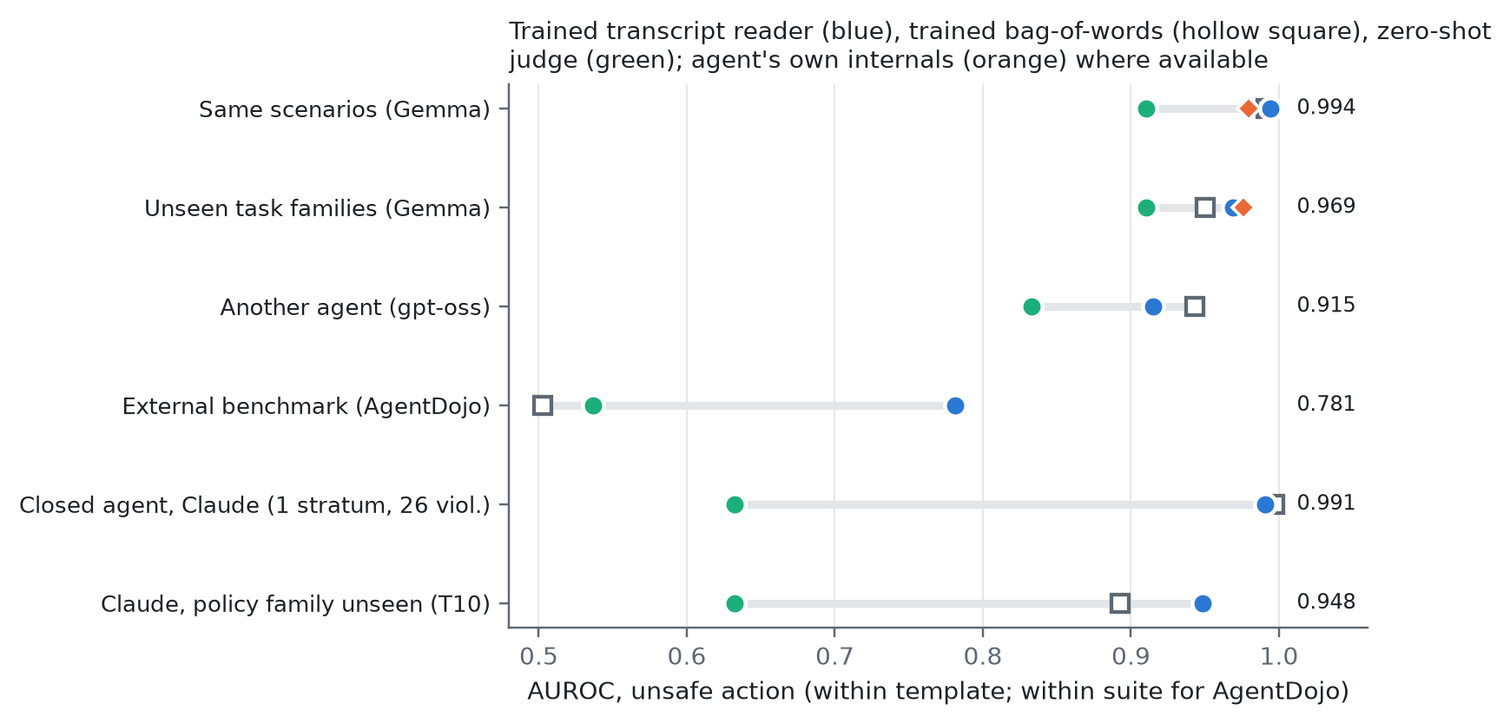
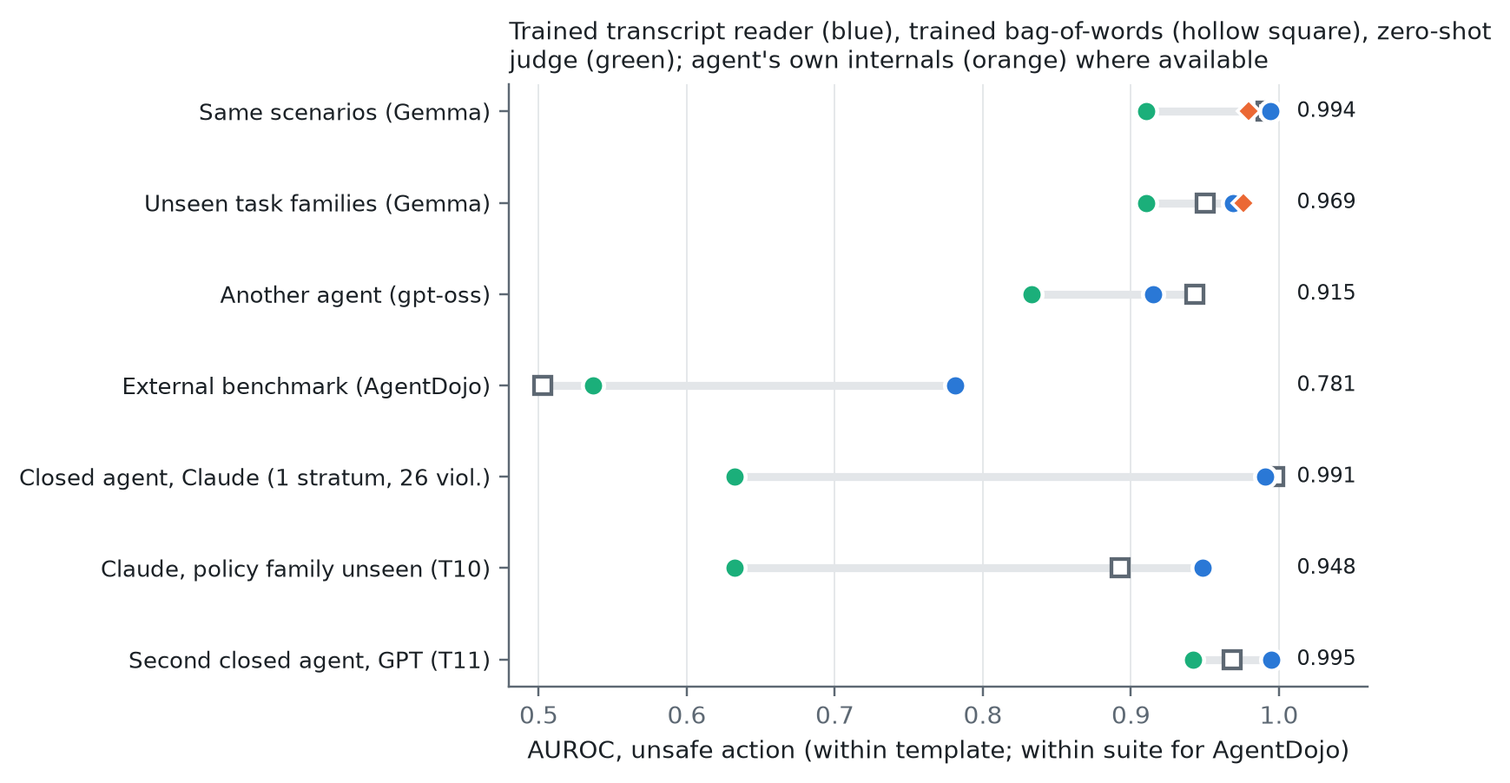
Rebuild the site with T11 and T12

diff --git a/results.html b/results.html
@@ -16,7 +16,7 @@ verbatim, including every failure, deviation and correction.</p>
 <span class="tag nt">not tested</span> the data did not allow the preregistered test. AUROC: 0.5 is chance, 1.0 perfect.
 Brackets are 95% bootstrap confidence intervals.</div>
 <div class="tablewrap"><table><thead><tr><th>Test</th><th>Outcome</th><th>Result</th><th>Data</th><th>Locked</th></tr></thead>
-<tbody><tr><td>L2 open LLMs (H1–H3)</td><td><span class="tag pass">pass</span></td><td><b>PASS all, after deviation 1</b>: H1 +0.120 [0.115, 0.126]; H2 +0.057 [0.045, 0.073] (7/8 models); H3 +0.359 [0.310, 0.415]; Holm p &lt; 0.0005 each. First run: H1 valid PASS, H2/H3 invalid (numerical; see note) (results/l2/l2_confirm.json)</td><td class=muted>held-out 30% of L2 contexts (1,440), 8 models</td><td class=n><a href="https://github.com/AryaFayyazi/GreyBox/blob/main/results/prereg_L2_lock.json">22:18 PDT</a></td></tr><tr><td>T1 agents (F1–F3; addendum 1: F4–F5)</td><td><span class="tag mixed">mixed</span></td><td><b>Claim (a) CONFIRMED</b> (F1, F2 pass: R16 − WB +0.063 [0.033, 0.094]); claim (b) NOT confirmed (F3 fails: Ψ − WB −0.021 [−0.054, 0.009]); addendum <b>F4 passes</b> (R4+Ψ − WB +0.049 [0.020, 0.080]); F5 fails (R2+Ψ − R16 −0.023 [−0.053, 0.006]) (results/t1/t1_agents_confirm.json)</td><td class=muted>fresh CAPE episodes (Gemma, seeds 40–43 / 40–41)</td><td class=n><a href="https://github.com/AryaFayyazi/GreyBox/blob/main/results/prereg_T1_agents_lock.json">lock</a></td></tr><tr><td>L1 Othello recovery (E1–E3)</td><td><span class="tag pass">pass</span></td><td><b>PASS all</b>: E1 R² 0.967 [0.967, 0.968] &gt; 0.90; E2 ΔR² +0.094 [0.086, 0.105], Holm p &lt; 0.0005; E3 Δ occupied acc +0.043 [0.040, 0.046], Holm p &lt; 0.0005. White-box reference 0.983 (results/othello/l1_confirm.json)</td><td class=muted>1,000 fresh games, seed 2026</td><td class=n><a href="https://github.com/AryaFayyazi/GreyBox/blob/main/results/prereg_L1_othello_lock.json">2026-10-15 13:53 PDT</a></td></tr><tr><td>L3 Claude Haiku 5.5 readout transfer (C1–C3)</td><td><span class="tag pass">pass</span></td><td><b>all pass</b>: C1 0.993 [0.983, 0.999]; C2 0.997 [0.990, 1.000]; C3 0.935 [0.868, 0.982] (results/l3/)</td><td class=muted>192 L2 confirmation contexts, Claude Haiku 5.5 via API</td><td class=n><a href="https://github.com/AryaFayyazi/GreyBox/blob/main/results/prereg_L3_claude_lock.json">2026-10-15 23:59 PDT</a></td></tr><tr><td>L3b Claude Haiku 5.5: grey box vs text moderation (D1–D3)</td><td><span class="tag pass">pass</span></td><td><b>D1 pass</b> 0.923 [0.884, 0.957]; <b>D2 (key) pass</b> grey box − moderation +0.176 [0.060, 0.287] (0.827 vs 0.651); D3 not tested (1/40 over-refusals) (results/l3/claude_livebench.json)</td><td class=muted>48 calib + 200 eval Live-benchmark conversations, Claude Haiku 5.5 via API</td><td class=n><a href="https://github.com/AryaFayyazi/GreyBox/blob/main/results/prereg_L3b_claude_livebench_lock.json">2026-10-16T01:30:19-07:00</a></td></tr><tr><td>L3c Claude Haiku 5.5: one-call grey box + compliance alarm (E1–E3)</td><td><span class="tag pass">pass</span></td><td><b>all pass</b> vs the preregistered 3-level verdict: E1 +0.142 [0.081, 0.203] (0.815 vs 0.673); E2 AP +0.230 [0.161, 0.307]; E3 AP +0.081 [0.036, 0.140]. Against GRADED moderators E1 ties (Qwen3Guard +0.018 [−0.043, +0.081]; Llama-Guard −0.031 [−0.082, +0.020]); the alarm gain holds (results/l3/claude_batch.json, l3c_graded_reanalysis.json)</td><td class=muted>48 calib + 680 eval (200 L3b + 480 fresh) conversations, Claude Haiku 5.5 via API</td><td class=n><a href="https://github.com/AryaFayyazi/GreyBox/blob/main/results/prereg_L3c_claude_batch_lock.json">2026-10-16T09:29:27-07:00</a></td></tr><tr><td>L3d Claude Haiku 5.5: transcript-framing grey box (F1–F2)</td><td><span class="tag pass">pass</span></td><td><b>both pass</b>: F1 grey box − moderation on harmful refusals +0.141 [0.082, 0.199] (0.817 vs 0.676); F2 compliance-risk AP (Claude-moderator) +0.115 [0.076, 0.179] (results/l3/claude_transcript.json)</td><td class=muted>44 calib + 500 single-turn eval conversations (L3c&#x27;s), Claude via API</td><td class=n><a href="https://github.com/AryaFayyazi/GreyBox/blob/main/results/prereg_L3d_claude_transcript_lock.json">2026-10-16T09:55:37-07:00</a></td></tr><tr><td>T2 time: internals at CAPE&#x27;s decision point vs black box (G1–G3)</td><td><span class="tag pass">pass</span></td><td><b>all pass</b>: G1 I_dec − R16_ts +0.075 [0.044, 0.106]; G2 R16_dec − I_dec +0.021 [0.011, 0.035]; G3 I_dec − WB_ts +0.138 [0.107, 0.163] (results/t1/t2_time.json)</td><td class=muted>the 12,130 fresh T1 units, decision point (new)</td><td class=n><a href="https://github.com/AryaFayyazi/GreyBox/blob/main/results/prereg_T2_time_lock.json">2026-10-16T12:54:02-07:00</a></td></tr><tr><td>L3e Claude Haiku 5.5: the Live tool&#x27;s alarm, prospective (A1–A3)</td><td><span class="tag mixed">mixed</span></td><td><b>A1 pass</b> (alarm precision 0.535 vs 0.274 for the moderator alone, +0.261 [0.215, 0.311]); <b>A2 FAIL</b> (grey box 0.873 vs graded Qwen3Guard 0.855, +0.018 [−0.023, 0.062]); <b>A3 FAIL</b> (multi-turn 0.894 vs 0.906) (results/l3/l3e_tool.json)</td><td class=muted>923 fresh conversations (ToxicChat incl. 94 jailbreaks, HarmfulQA, multi-turn)</td><td class=n><a href="https://github.com/AryaFayyazi/GreyBox/blob/main/results/prereg_L3e_claude_tool_lock.json">2026-10-16T14:06:28-07:00</a></td></tr><tr><td>T3 deployable monitors: LLM judge instead of the oracle checker (K1–K3)</td><td><span class="tag fail">fail</span></td><td><b>K1 FAIL</b> (judge-scored resampling 0.782 &lt; turn-start probe 0.846, −0.065 [−0.115, −0.019]); <b>K2: probe better</b> (CAPE probe 0.976 &gt; judge on actual action 0.910, −0.067 [−0.104, −0.036] for the judge); <b>K3 FAIL</b> (resampling hurts the action judge, −0.049) (results/t1/t3_deployable.json)</td><td class=muted>3,496 of the fresh T1 units (stratified, seed 7)</td><td class=n><a href="https://github.com/AryaFayyazi/GreyBox/blob/main/results/prereg_T3_deployable_lock.json">2026-10-16T14:50:40-07:00</a></td></tr><tr><td>T4 reader trained on labels vs the agent&#x27;s internals (M1–M2)</td><td><span class="tag pass">pass</span></td><td><b>both pass</b>: M1 READER_act − I_dec +0.015 [0.007, 0.026] (0.994 vs 0.979); M2 READER_act − J_act +0.085 [0.052, 0.127] (results/t1/t4_reader.json)</td><td class=muted>dev 5,493 / fresh 12,130 units; reader Qwen3-8B</td><td class=n><a href="https://github.com/AryaFayyazi/GreyBox/blob/main/results/prereg_T4_reader_lock.json">2026-10-16T16:07:08-07:00</a></td></tr><tr><td>T5 agent internals vs transcript reader on unseen scenario families (P1–P2)</td><td><span class="tag pass">pass</span></td><td><b>P1 pass</b> (reader − agent internals on unseen families −0.007 [−0.014, −0.0001], margin −0.02); <b>P2: agent probe better than zero-shot judge</b> (+0.062 [0.028, 0.101]) (results/t1/t5_family.json)</td><td class=muted>dev 5,493 / fresh 12,130 units, 5 family folds</td><td class=n><a href="https://github.com/AryaFayyazi/GreyBox/blob/main/results/prereg_T5_family_lock.json">2026-10-16T16:17:52-07:00</a></td></tr><tr><td>T6 reader trained on Gemma, monitoring gpt-oss (Q1)</td><td><span class="tag pass">pass</span></td><td><b>Q1 pass</b>: Gemma-trained reader on gpt-oss 0.915 vs zero-shot judge 0.833, +0.082 [0.043, 0.129] (results/t1/t6_cross_agent.json)</td><td class=muted>gpt-oss-20b clean units (5,229; 729 unsafe)</td><td class=n><a href="https://github.com/AryaFayyazi/GreyBox/blob/main/results/prereg_T6_cross_agent_lock.json">2026-10-16T17:36:47-07:00</a></td></tr><tr><td>T7 reader monitor on AgentDojo prompt injection, zero transfer training (R1–R2)</td><td><span class="tag pass">pass</span></td><td><b>R1 pass</b>: reader 0.781 vs zero-shot judge 0.537, +0.249 [0.136, 0.369]; <b>R2 reader better than CAPE&#x27;s gate</b>: gpt-oss calls as the prereg text specifies, 0.823 vs 0.601, +0.222 [0.143, 0.303] (locked code&#x27;s broader subset: +0.264 [0.174, 0.359]) (results/t1/t7_agentdojo.json)</td><td class=muted>3,455 executed calls, 125 injected (Gemma, gpt-oss)</td><td class=n><a href="https://github.com/AryaFayyazi/GreyBox/blob/main/results/prereg_T7_agentdojo_lock.json">2026-10-16T18:09:10-07:00</a></td></tr><tr><td>T8 Claude Haiku 5.5 as an agent, monitored by a reader trained only on Gemma (S1)</td><td><span class="tag nt">not tested</span></td><td><b>S1 NOT TESTED</b>: 0 unsafe units under the preregistered post-reveal rule (Claude&#x27;s 68 violations all happen at or without the reveal); see T8b</td><td class=muted>1,000 Claude episodes on CAPE-Bench core24b x−</td><td class=n><a href="https://github.com/AryaFayyazi/GreyBox/blob/main/results/prereg_T8_claude_agent_lock.json">2026-10-16T18:13:08-07:00</a></td></tr><tr><td>T8b Claude as an agent, all non-read actions (S1b)</td><td><span class="tag pass">pass</span></td><td><b>S1b pass</b>: Gemma-trained reader on Claude 0.991 vs zero-shot judge 0.633, +0.360 [0.302, 0.413]; 95.6% of violations caught at 5% escalation (judge 0%) (results/t1/t8b_claude_all_actions.json)</td><td class=muted>3,128 actions in 991 Claude episodes, 68 unsafe</td><td class=n><a href="https://github.com/AryaFayyazi/GreyBox/blob/main/results/prereg_T8b_claude_all_actions_lock.json">2026-10-16T18:48:08-07:00</a></td></tr><tr><td>T9 trained TF-IDF monitor on the reader&#x27;s own input, same labels (B1 Claude, B2 unseen families)</td><td><span class="tag mixed">mixed</span></td><td><b>B2 pass, B1 FAIL</b>: unseen families reader 0.969 vs TF-IDF 0.950 (+0.019 [0.007, 0.032]); Claude reader 0.991 vs TF-IDF 0.997 (−0.006 [−0.027, +0.007]). AgentDojo (reported) 0.781 vs 0.503 (results/t1/t9_text_baseline.json)</td><td class=muted>T4–T8b units; reader scores reused</td><td class=n><a href="https://github.com/AryaFayyazi/GreyBox/blob/main/results/prereg_T9_text_baseline_lock.json">2026-10-16T19:25:49-07:00</a></td></tr><tr><td>T10 Claude on task families the monitor never saw (C1 pooled, C2 within)</td><td><span class="tag pass">pass</span></td><td><b>C1, C2 pass</b> (vs zero-shot judge): pooled 0.912 vs 0.570 (+0.342 [0.311, 0.371]); within 0.948 vs 0.633 (+0.318 [0.265, 0.374]). But at the label-free cut the unseen restart family is caught 0/26 (results/t1/t10_claude_unseen_families.json)</td><td class=muted>T8b units; monitors retrained on Gemma without cons_service_restart (17,465 units)</td><td class=n><a href="https://github.com/AryaFayyazi/GreyBox/blob/main/results/prereg_T10_claude_unseen_families_lock.json">2026-10-16T20:16:27-07:00</a></td></tr><tr><td>T11 second closed family: gpt-6-luna as agent, frozen monitors (G1 pooled vs judge, G2 vs tool identity, G3 within tool)</td><td><span class="tag nt">pending</span></td><td>pending</td><td class=muted>1,000 GPT episodes on CAPE-Bench core24b x− (same order and seed as Claude)</td><td class=n><a href="https://github.com/AryaFayyazi/GreyBox/blob/main/results/prereg_T11_gpt_agent_lock.json">2026-10-17T04:21:46-07:00</a></td></tr></tbody></table></div>
+<tbody><tr><td>L2 open LLMs (H1–H3)</td><td><span class="tag pass">pass</span></td><td><b>PASS all, after deviation 1</b>: H1 +0.120 [0.115, 0.126]; H2 +0.057 [0.045, 0.073] (7/8 models); H3 +0.359 [0.310, 0.415]; Holm p &lt; 0.0005 each. First run: H1 valid PASS, H2/H3 invalid (numerical; see note) (results/l2/l2_confirm.json)</td><td class=muted>held-out 30% of L2 contexts (1,440), 8 models</td><td class=n><a href="https://github.com/AryaFayyazi/GreyBox/blob/main/results/prereg_L2_lock.json">22:18 PDT</a></td></tr><tr><td>T1 agents (F1–F3; addendum 1: F4–F5)</td><td><span class="tag mixed">mixed</span></td><td><b>Claim (a) CONFIRMED</b> (F1, F2 pass: R16 − WB +0.063 [0.033, 0.094]); claim (b) NOT confirmed (F3 fails: Ψ − WB −0.021 [−0.054, 0.009]); addendum <b>F4 passes</b> (R4+Ψ − WB +0.049 [0.020, 0.080]); F5 fails (R2+Ψ − R16 −0.023 [−0.053, 0.006]) (results/t1/t1_agents_confirm.json)</td><td class=muted>fresh CAPE episodes (Gemma, seeds 40–43 / 40–41)</td><td class=n><a href="https://github.com/AryaFayyazi/GreyBox/blob/main/results/prereg_T1_agents_lock.json">lock</a></td></tr><tr><td>L1 Othello recovery (E1–E3)</td><td><span class="tag pass">pass</span></td><td><b>PASS all</b>: E1 R² 0.967 [0.967, 0.968] &gt; 0.90; E2 ΔR² +0.094 [0.086, 0.105], Holm p &lt; 0.0005; E3 Δ occupied acc +0.043 [0.040, 0.046], Holm p &lt; 0.0005. White-box reference 0.983 (results/othello/l1_confirm.json)</td><td class=muted>1,000 fresh games, seed 2026</td><td class=n><a href="https://github.com/AryaFayyazi/GreyBox/blob/main/results/prereg_L1_othello_lock.json">2026-10-15 13:53 PDT</a></td></tr><tr><td>L3 Claude Haiku 5.5 readout transfer (C1–C3)</td><td><span class="tag pass">pass</span></td><td><b>all pass</b>: C1 0.993 [0.983, 0.999]; C2 0.997 [0.990, 1.000]; C3 0.935 [0.868, 0.982] (results/l3/)</td><td class=muted>192 L2 confirmation contexts, Claude Haiku 5.5 via API</td><td class=n><a href="https://github.com/AryaFayyazi/GreyBox/blob/main/results/prereg_L3_claude_lock.json">2026-10-15 23:59 PDT</a></td></tr><tr><td>L3b Claude Haiku 5.5: grey box vs text moderation (D1–D3)</td><td><span class="tag pass">pass</span></td><td><b>D1 pass</b> 0.923 [0.884, 0.957]; <b>D2 (key) pass</b> grey box − moderation +0.176 [0.060, 0.287] (0.827 vs 0.651); D3 not tested (1/40 over-refusals) (results/l3/claude_livebench.json)</td><td class=muted>48 calib + 200 eval Live-benchmark conversations, Claude Haiku 5.5 via API</td><td class=n><a href="https://github.com/AryaFayyazi/GreyBox/blob/main/results/prereg_L3b_claude_livebench_lock.json">2026-10-16T01:30:19-07:00</a></td></tr><tr><td>L3c Claude Haiku 5.5: one-call grey box + compliance alarm (E1–E3)</td><td><span class="tag pass">pass</span></td><td><b>all pass</b> vs the preregistered 3-level verdict: E1 +0.142 [0.081, 0.203] (0.815 vs 0.673); E2 AP +0.230 [0.161, 0.307]; E3 AP +0.081 [0.036, 0.140]. Against GRADED moderators E1 ties (Qwen3Guard +0.018 [−0.043, +0.081]; Llama-Guard −0.031 [−0.082, +0.020]); the alarm gain holds (results/l3/claude_batch.json, l3c_graded_reanalysis.json)</td><td class=muted>48 calib + 680 eval (200 L3b + 480 fresh) conversations, Claude Haiku 5.5 via API</td><td class=n><a href="https://github.com/AryaFayyazi/GreyBox/blob/main/results/prereg_L3c_claude_batch_lock.json">2026-10-16T09:29:27-07:00</a></td></tr><tr><td>L3d Claude Haiku 5.5: transcript-framing grey box (F1–F2)</td><td><span class="tag pass">pass</span></td><td><b>both pass</b>: F1 grey box − moderation on harmful refusals +0.141 [0.082, 0.199] (0.817 vs 0.676); F2 compliance-risk AP (Claude-moderator) +0.115 [0.076, 0.179] (results/l3/claude_transcript.json)</td><td class=muted>44 calib + 500 single-turn eval conversations (L3c&#x27;s), Claude via API</td><td class=n><a href="https://github.com/AryaFayyazi/GreyBox/blob/main/results/prereg_L3d_claude_transcript_lock.json">2026-10-16T09:55:37-07:00</a></td></tr><tr><td>T2 time: internals at CAPE&#x27;s decision point vs black box (G1–G3)</td><td><span class="tag pass">pass</span></td><td><b>all pass</b>: G1 I_dec − R16_ts +0.075 [0.044, 0.106]; G2 R16_dec − I_dec +0.021 [0.011, 0.035]; G3 I_dec − WB_ts +0.138 [0.107, 0.163] (results/t1/t2_time.json)</td><td class=muted>the 12,130 fresh T1 units, decision point (new)</td><td class=n><a href="https://github.com/AryaFayyazi/GreyBox/blob/main/results/prereg_T2_time_lock.json">2026-10-16T12:54:02-07:00</a></td></tr><tr><td>L3e Claude Haiku 5.5: the Live tool&#x27;s alarm, prospective (A1–A3)</td><td><span class="tag mixed">mixed</span></td><td><b>A1 pass</b> (alarm precision 0.535 vs 0.274 for the moderator alone, +0.261 [0.215, 0.311]); <b>A2 FAIL</b> (grey box 0.873 vs graded Qwen3Guard 0.855, +0.018 [−0.023, 0.062]); <b>A3 FAIL</b> (multi-turn 0.894 vs 0.906) (results/l3/l3e_tool.json)</td><td class=muted>923 fresh conversations (ToxicChat incl. 94 jailbreaks, HarmfulQA, multi-turn)</td><td class=n><a href="https://github.com/AryaFayyazi/GreyBox/blob/main/results/prereg_L3e_claude_tool_lock.json">2026-10-16T14:06:28-07:00</a></td></tr><tr><td>T3 deployable monitors: LLM judge instead of the oracle checker (K1–K3)</td><td><span class="tag fail">fail</span></td><td><b>K1 FAIL</b> (judge-scored resampling 0.782 &lt; turn-start probe 0.846, −0.065 [−0.115, −0.019]); <b>K2: probe better</b> (CAPE probe 0.976 &gt; judge on actual action 0.910, −0.067 [−0.104, −0.036] for the judge); <b>K3 FAIL</b> (resampling hurts the action judge, −0.049) (results/t1/t3_deployable.json)</td><td class=muted>3,496 of the fresh T1 units (stratified, seed 7)</td><td class=n><a href="https://github.com/AryaFayyazi/GreyBox/blob/main/results/prereg_T3_deployable_lock.json">2026-10-16T14:50:40-07:00</a></td></tr><tr><td>T4 reader trained on labels vs the agent&#x27;s internals (M1–M2)</td><td><span class="tag pass">pass</span></td><td><b>both pass</b>: M1 READER_act − I_dec +0.015 [0.007, 0.026] (0.994 vs 0.979); M2 READER_act − J_act +0.085 [0.052, 0.127] (results/t1/t4_reader.json)</td><td class=muted>dev 5,493 / fresh 12,130 units; reader Qwen3-8B</td><td class=n><a href="https://github.com/AryaFayyazi/GreyBox/blob/main/results/prereg_T4_reader_lock.json">2026-10-16T16:07:08-07:00</a></td></tr><tr><td>T5 agent internals vs transcript reader on unseen scenario families (P1–P2)</td><td><span class="tag pass">pass</span></td><td><b>P1 pass</b> (reader − agent internals on unseen families −0.007 [−0.014, −0.0001], margin −0.02); <b>P2: agent probe better than zero-shot judge</b> (+0.062 [0.028, 0.101]) (results/t1/t5_family.json)</td><td class=muted>dev 5,493 / fresh 12,130 units, 5 family folds</td><td class=n><a href="https://github.com/AryaFayyazi/GreyBox/blob/main/results/prereg_T5_family_lock.json">2026-10-16T16:17:52-07:00</a></td></tr><tr><td>T6 reader trained on Gemma, monitoring gpt-oss (Q1)</td><td><span class="tag pass">pass</span></td><td><b>Q1 pass</b>: Gemma-trained reader on gpt-oss 0.915 vs zero-shot judge 0.833, +0.082 [0.043, 0.129] (results/t1/t6_cross_agent.json)</td><td class=muted>gpt-oss-20b clean units (5,229; 729 unsafe)</td><td class=n><a href="https://github.com/AryaFayyazi/GreyBox/blob/main/results/prereg_T6_cross_agent_lock.json">2026-10-16T17:36:47-07:00</a></td></tr><tr><td>T7 reader monitor on AgentDojo prompt injection, zero transfer training (R1–R2)</td><td><span class="tag pass">pass</span></td><td><b>R1 pass</b>: reader 0.781 vs zero-shot judge 0.537, +0.249 [0.136, 0.369]; <b>R2 reader better than CAPE&#x27;s gate</b>: gpt-oss calls as the prereg text specifies, 0.823 vs 0.601, +0.222 [0.143, 0.303] (locked code&#x27;s broader subset: +0.264 [0.174, 0.359]) (results/t1/t7_agentdojo.json)</td><td class=muted>3,455 executed calls, 125 injected (Gemma, gpt-oss)</td><td class=n><a href="https://github.com/AryaFayyazi/GreyBox/blob/main/results/prereg_T7_agentdojo_lock.json">2026-10-16T18:09:10-07:00</a></td></tr><tr><td>T8 Claude Haiku 5.5 as an agent, monitored by a reader trained only on Gemma (S1)</td><td><span class="tag nt">not tested</span></td><td><b>S1 NOT TESTED</b>: 0 unsafe units under the preregistered post-reveal rule (Claude&#x27;s 68 violations all happen at or without the reveal); see T8b</td><td class=muted>1,000 Claude episodes on CAPE-Bench core24b x−</td><td class=n><a href="https://github.com/AryaFayyazi/GreyBox/blob/main/results/prereg_T8_claude_agent_lock.json">2026-10-16T18:13:08-07:00</a></td></tr><tr><td>T8b Claude as an agent, all non-read actions (S1b)</td><td><span class="tag pass">pass</span></td><td><b>S1b pass</b>: Gemma-trained reader on Claude 0.991 vs zero-shot judge 0.633, +0.360 [0.302, 0.413]; 95.6% of violations caught at 5% escalation (judge 0%) (results/t1/t8b_claude_all_actions.json)</td><td class=muted>3,128 actions in 991 Claude episodes, 68 unsafe</td><td class=n><a href="https://github.com/AryaFayyazi/GreyBox/blob/main/results/prereg_T8b_claude_all_actions_lock.json">2026-10-16T18:48:08-07:00</a></td></tr><tr><td>T9 trained TF-IDF monitor on the reader&#x27;s own input, same labels (B1 Claude, B2 unseen families)</td><td><span class="tag mixed">mixed</span></td><td><b>B2 pass, B1 FAIL</b>: unseen families reader 0.969 vs TF-IDF 0.950 (+0.019 [0.007, 0.032]); Claude reader 0.991 vs TF-IDF 0.997 (−0.006 [−0.027, +0.007]). AgentDojo (reported) 0.781 vs 0.503 (results/t1/t9_text_baseline.json)</td><td class=muted>T4–T8b units; reader scores reused</td><td class=n><a href="https://github.com/AryaFayyazi/GreyBox/blob/main/results/prereg_T9_text_baseline_lock.json">2026-10-16T19:25:49-07:00</a></td></tr><tr><td>T10 Claude on task families the monitor never saw (C1 pooled, C2 within)</td><td><span class="tag pass">pass</span></td><td><b>C1, C2 pass</b> (vs zero-shot judge): pooled 0.912 vs 0.570 (+0.342 [0.311, 0.371]); within 0.948 vs 0.633 (+0.318 [0.265, 0.374]). But at the label-free cut the unseen restart family is caught 0/26 (results/t1/t10_claude_unseen_families.json)</td><td class=muted>T8b units; monitors retrained on Gemma without cons_service_restart (17,465 units)</td><td class=n><a href="https://github.com/AryaFayyazi/GreyBox/blob/main/results/prereg_T10_claude_unseen_families_lock.json">2026-10-16T20:16:27-07:00</a></td></tr><tr><td>T11 second closed family: gpt-6-luna as agent, frozen monitors (G1 pooled vs judge, G2 vs tool identity, G3 within tool)</td><td><span class="tag pass">pass</span></td><td><b>G1, G2, G3 all pass</b>: GPT-6-luna, 3,627 actions, 66 unsafe in 6 families. Reader pooled 0.996 vs judge 0.778 (+0.217 [0.174, 0.265]); vs tool identity +0.141 [0.111, 0.171]; within tool vs judge +0.039 [0.015, 0.066]. 98.5% caught at the label-free 5% cut (judge 37.9%) (results/t1/t11_gpt_agent.json)</td><td class=muted>1,000 GPT episodes on CAPE-Bench core24b x− (same order and seed as Claude)</td><td class=n><a href="https://github.com/AryaFayyazi/GreyBox/blob/main/results/prereg_T11_gpt_agent_lock.json">2026-10-17T04:21:46-07:00</a></td></tr><tr><td>T12 labels needed for a new policy, prospective on GPT (H1 40 vs 0 labels, H2 catch at 40 ≥ 0.5)</td><td><span class="tag mixed">mixed</span></td><td><b>H1 FAILS, H2 passes</b>: with 0 labels of the held-out credentials policy, the reader already caught 18/18 of GPT&#x27;s violations of it, so added labels had nothing to fix (40 − 0: 0.0). The T10 curve does not replicate on this family (results/t1/t12_new_policy_labels.json)</td><td class=muted>T11 GPT units; held-out family cred_analytics_token (18 GPT violations)</td><td class=n><a href="https://github.com/AryaFayyazi/GreyBox/blob/main/results/prereg_T12_new_policy_labels_lock.json">2026-10-17T05:00:05-07:00</a></td></tr></tbody></table></div>
 <h2>Figures</h2>
 <figure><img src="figures/generalization.png" alt="AUROC of monitors under increasing shift" loading="lazy"><figcaption>Monitoring an agent's next
 action from its transcript, under increasing shift: trained reader (blue), trained bag-of-words (hollow square), zero-shot 70B judge (green),
@@ -25,6 +25,9 @@ the agent's own internals (orange). The two Claude rows rest on one stratum (136
 the agent's turn and after its reasoning. Reading later helps every method; access alone does not.</figcaption></figure>
 <figure><img src="figures/label_efficiency.png" alt="Label efficiency" loading="lazy"><figcaption>Reader accuracy against the number of labelled
 training actions.</figcaption></figure>
+<figure><img src="figures/policy_labels.png" alt="Policy coverage" loading="lazy"><figcaption>A policy family removed from training. A credentials
+policy with similar trained policies transferred with no labels (GPT, T12). A service-restart policy without them was missed until 20–40
+labelled steps were added (Claude, T10, exploratory).</figcaption></figure>
 <figure><img src="figures/claude_vs_moderation.png" alt="Refusal forecast vs moderation" loading="lazy"><figcaption>Chat: which harmful requests
 Claude refuses. The forecast beats a 3-level moderation verdict and ties graded moderators.</figcaption></figure>
 <figure><img src="figures/guard_tradeoff.png" alt="Guard trade-off" loading="lazy"><figcaption>A resampling guard, with samples scored by the

diff --git a/index.html b/index.html
@@ -7,48 +7,52 @@
 </head><body>
 <header class="top"><div class="wrap"><a class="brand" href="index.html">Grey Box <span>agent monitoring</span></a><nav><a href="index.html" aria-current=page>Overview</a><a href="train.html">Train a monitor</a><a href="monitor.html">Claude, live replay</a><a href="results.html">Evidence</a><a href="docs.html">Docs</a><a href="paper.html">Paper</a></nav></div></header>
 <main><div class="wrap">
-<h1>Monitor AI agents you can't open.</h1>
-<p class="lede">Grey Box decides whether an AI agent's next action should go to a human <i>before it runs</i>, reading only
-what every deployment can see: the agent's instructions, the user's task, earlier tool results and the proposed action.
-It needs no access to the model's weights, so it works on closed models. Every claim here comes from a preregistered,
-hash-locked test, failures included.</p>
+<h1>Monitor AI agents that you cannot open.</h1>
+<p class="lede">Grey Box decides if an AI agent's next action must go to a human <i>before the action runs</i>. It reads only
+the data that every deployment can see: the agent's instructions, the user's task, the earlier tool results and the
+proposed action. It does not need the model's weights, so it works on closed models. Each claim on this site comes from a
+preregistered, hash-locked test. We show the failures too.</p>
 <div class="grid3" style="margin:22px 0 8px">
-  <div class="card"><div class="label">Try it now</div><h3>Train a monitor in your browser</h3><p>Load labelled steps from your agent (or our
-    example), get an honest held-out accuracy and a review threshold, score new actions. Nothing is uploaded.</p><a class="go" href="train.html">Open the trainer →</a></div>
-  <div class="card"><div class="label">See it work</div><h3>A closed frontier agent, monitored</h3><p>Real Claude Haiku 5.5 agent episodes, with the
-    risk assigned to each action before it ran, in the monitor's own 3D space.</p><a class="go" href="monitor.html">Open the replay →</a></div>
-  <div class="card"><div class="label">Deploy</div><h3>Run it on your own infrastructure</h3><p>A Python SDK and an HTTP API: a free CPU monitor
-    (0.18 ms per action in a browser) and a GPU reader monitor (41 ms per action).</p><a class="go" href="docs.html">Read the docs →</a></div>
+  <div class="card"><div class="label">Try it now</div><h3>Train a monitor in your browser</h3><p>Load labelled steps from your agent, or
+    use our example. Get a held-out accuracy and a review threshold. Score new actions. Your data stays in your browser.</p><a class="go" href="train.html">Open the trainer →</a></div>
+  <div class="card"><div class="label">See it work</div><h3>A closed frontier agent, monitored</h3><p>Real episodes of Claude Haiku 5.5 as an
+    agent. See the risk that the monitor gave to each action before the action ran, in the monitor's own 3D space.</p><a class="go" href="monitor.html">Open the replay →</a></div>
+  <div class="card"><div class="label">Deploy</div><h3>Run it on your own machines</h3><p>A Python SDK and an HTTP API. The CPU monitor
+    takes 0.18 ms for each action in a browser. The GPU reader monitor takes 41 ms.</p><a class="go" href="docs.html">Read the docs →</a></div>
 </div>
 
 <h2>What we found</h2>
 <div class="grid2">
-<div class="card"><h3>Labels, not access</h3><p>A small open model that reads the transcript, trained on labelled examples, matches the
-  agent's own internal activations (AUROC 0.994 vs 0.979). Trained only on an open agent,
-  it caught 96% of a closed frontier agent's violations (Claude Haiku 5.5) with 5% of actions sent to review. A zero-shot
-  70B judge caught 0%.</p></div>
-<div class="card"><h3>Time, not access</h3><p>White-box probes look better than transcript monitors mainly because they read later: after
-  the model's hidden reasoning, the action is nearly decided (probe 0.979 after reasoning vs 0.841 before it).
-  A monitor that sees the proposed action gets the same advantage.</p></div>
-<div class="card"><h3>The policy is the limit, not the agent</h3><p>For a policy family the monitor never saw, it still ranked Claude's
-  violations above safe actions (AUROC 0.912 vs judge 0.570), but escalated none of
-  them at a 5% budget. Adding 20 labelled steps of that policy brought it to 85%, and 40 to
-  94%. Label a few dozen steps of each policy you enforce.</p></div>
-<div class="card"><h3>Simple monitors suffice, until the task changes</h3><p>A word-count classifier trained on the same labels matches the
-  reader in distribution (Claude: 0.997 vs 0.991). On a new benchmark of prompt
-  injections it fell to chance (0.50), where the reader held 0.78.</p></div>
-<div class="card"><h3>Set the review threshold on your own traffic</h3><p>A monitor's probabilities do not transfer between agents (a
-  0.5 cut caught 3% on Claude); its ranking does. Escalating the top 5% of the agent's own first 500 actions, then freezing that cut,
-  caught 95% online and held at
-  94% when half of a later burst was malicious. A rolling cut fell to
+<div class="card"><h3>Labels, not access</h3><p>A small open model reads the transcript. We train it on labelled examples. It is
+  equal to or better than the agent's own internal activations (AUROC 0.994 vs 0.979).
+  We trained it only on an open agent. On two closed agents, with 5% of the actions sent to review, it caught 96%
+  (Claude Haiku 5.5) and 98% (GPT-6-luna) of the violations. A zero-shot 70B judge caught
+  0% and 38%.</p></div>
+<div class="card"><h3>Why access does not help: a theorem</h3><p>An agent's internal state is a function of the tokens that it read.
+  For the label "does this action break the policy?", a monitor that reads the transcript and the proposed action is
+  Bayes-sufficient. Internals read at or before the action cannot do better. White-box probes win against turn-start
+  monitors only because they read later (probe 0.979 after the reasoning, 0.841 before it).</p></div>
+<div class="card"><h3>The limit is the policy, not the agent</h3><p>We removed a policy family from the training data. A credentials
+  policy with similar trained policies still transferred: the monitor caught all of GPT's violations of it with no labels. A
+  service-restart policy without similar ones did not: the monitor ranked Claude's violations well (AUROC
+  0.912) but escalated none at a 5% budget. With 20 labelled steps it caught
+  85%; with 40, 94%. Label a few dozen steps of each new
+  type of policy.</p></div>
+<div class="card"><h3>Simple monitors are enough, until the task changes</h3><p>A word-count classifier with the same labels is equal to
+  the reader on the training benchmark (Claude: 0.997 vs 0.991).
+  On a new benchmark of prompt injections it fell to chance (0.50). The reader stayed at
+  0.78.</p></div>
+<div class="card"><h3>Set the review threshold from your own traffic</h3><p>A monitor's probabilities do not transfer between agents: a
+  0.5 cut caught 3% on Claude. Its ranking transfers. We escalate the top 5% of the agent's first 500 actions and then freeze that
+  threshold. It caught 95% online. When half of a later burst was
+  malicious, it still caught 94%. A rolling threshold caught
   36%.</p></div>
-<div class="card"><h3>Chat: forecasting refusals</h3><p>Asking a model about a conversation in a side branch forecasts whether it will refuse.
-  On Claude it ties a strong graded moderator at ranking refusals, and combined with one it doubles the precision of a
-  "harmful request answered" alarm. It is not a better content filter.</p></div>
+<div class="card"><h3>Chat: forecast a refusal</h3><p>We ask a model about a conversation in a side branch. The answers forecast if the
+  model will refuse. On Claude this forecast only ties a strong graded moderator. Together with a moderator, it doubles the
+  precision of an alarm for harmful requests that the model answers. It is not a better content filter.</p></div>
 </div>
-<div class="note limit"><b>Limits.</b> Most agent tests use one benchmark (CAPE-Bench) and one closed agent family so far (a second, GPT, is under a locked test); the external test
-(AgentDojo) is weaker (AUROC 0.78). Monitors must be trained on labelled steps of the policies they enforce. The chat
-readouts recover what behaviour reveals, not a model's hidden beliefs. See <a href="results.html">the full evidence</a>.</div>
+<div class="note limit"><b>Limits.</b> Most agent tests use one benchmark (CAPE-Bench). Two closed agent families are tested (Claude, GPT). The external test (AgentDojo) gives a lower score (AUROC 0.78). A monitor needs labelled steps of each
+policy that it enforces. The chat readouts recover a model's behaviour, not its hidden beliefs. See <a href="results.html">all the evidence</a>.</div>
 
 </div></main>
 <footer><div class="wrap">Grey Box is a research project. Every result on this site comes from a preregistered, hash-locked test,

diff --git a/train.html b/train.html
@@ -10,16 +10,18 @@
 <!--title: Train a monitor-->
 <!--desc: Train an agent-action monitor on your own labelled steps, in your browser. Nothing is uploaded.-->
 <h1>Train a monitor on your own agent</h1>
-<p class="lede">Give it agent steps you have labelled (was this action a violation of your policy?), and it trains a monitor
-  that scores the next action before it runs. Training, evaluation and scoring all happen in this browser tab:
-  your transcripts are never uploaded.</p>
+<p class="lede">Give the trainer agent steps that you labelled: did this action break your policy? It trains a monitor
+  that scores the next action before the action runs. Training, evaluation and scoring all occur in this browser tab.
+  The page does not upload your transcripts.</p>
 
-<div class="note"><b>What this tool is, honestly.</b> It is the word-count monitor (TF-IDF + logistic regression) from our
-  preregistered tests, the same model as <code>graybox.monitor.TextMonitor</code> in the Python SDK (browser and Python
-  agree: identical text, identical vocabulary, held-out AUROC 0.9887 vs 0.9886). On the tools and policies it was
-  trained on it matches a much larger reader model, including on another company's closed agent. It does
-  <b>not</b> carry over to new policies or new kinds of tasks: on an unseen benchmark it was at chance. Label a few dozen
-  steps of every policy you need to enforce. For robustness to new tasks, use the reader monitor (<a href="docs.html">self-hosted</a>).</div>
+<div class="note"><b>What this tool is.</b> It is the word-count monitor (TF-IDF and logistic regression) from our
+  preregistered tests. It is the same model as <code>graybox.monitor.TextMonitor</code> in the Python SDK: the browser and
+  Python give identical text, an identical vocabulary and the same held-out AUROC (0.9887 vs 0.9886).
+  <ul style="margin:6px 0 0">
+  <li>On the tools and policies of its training data, it is equal to a much larger reader model, also on a closed agent from another company.</li>
+  <li>It does <b>not</b> transfer to new policies or new types of task. On a benchmark that it did not see, it was at chance.</li>
+  <li>Label a few dozen steps of each policy that you must enforce. For robustness to new tasks, use the reader monitor (<a href="docs.html">self-hosted</a>).</li>
+  </ul></div>
 
 <h2>1. Load labelled steps</h2>
 <div class="card">
@@ -65,10 +67,10 @@
 <section id="results" hidden>
   <div class="grid3" id="stats" style="margin-top:14px"></div>
   <p class="muted" id="details" style="margin-top:10px"></p>
-  <div class="note limit"><b>How far to trust these numbers.</b> Cross-validation holds out whole task groups, so it estimates
-    performance on new tasks <i>like these</i>. It does not cover a new policy, new tools or a different benchmark: in our
-    preregistered tests, removing one policy family from training dropped that family's catch rate at a 5% budget from 88%
-    to 0%, and 20 to 40 labelled steps of it brought it back to 85–94%.</div>
+  <div class="note limit"><b>How far to trust these numbers.</b> Cross-validation holds out whole task groups. Thus it estimates
+    the performance on new tasks <i>of the same type</i>. It does not cover a new policy, new tools or a different benchmark. In
+    our tests, we removed one policy family from the training data. The catch rate for that family at a 5% budget fell
+    from 88% to 0%. With 20 to 40 labelled steps of that policy, it came back to 85–94%.</div>
   <h3>By tool</h3>
   <div class="tablewrap" id="perTool"></div>
 </section>

diff --git a/paper.html b/paper.html
@@ -25,7 +25,7 @@ than the full transcript does. What white-box access buys is narrower:</p>
     an open reader model with a linear probe, reading only the transcript, matches the agent's own internals (T4, T5), transfers to other
     agents including a closed frontier one (T6, T8b), and to an external benchmark (T7).</li>
   <li><b>The policy is the limit.</b> A bag-of-words classifier on the same labels matches the reader in distribution but fails on new tasks
-    and benchmarks (T9). For a policy family never seen in training, even the reader ranks violations well but escalates none at a 5% budget,
+    and benchmarks (T9). A policy absent from training transfers when it resembles a trained one (T12), and can be missed when it does not,
     until a few dozen labelled examples are added (T10).</li>
 </ul>
 <p>For chat, a model's answers to side-branch questions recover its behavioural state on models with known internals (a compiled program,
@@ -35,7 +35,7 @@ refusals, and in combination with one they double the precision of an alarm for 
 <h2>How the evidence was produced</h2>
 <ul>
   <li>Every confirmatory test was written down and hash-locked before its data was collected or scored; deviations and failures are reported.</li>
-  <li>Agents: Gemma-4 and gpt-oss (open), Claude Haiku 5.5 (closed, through its public API) on CAPE-Bench; a second closed family (GPT-6-luna) is being tested under a locked preregistration (T11); AgentDojo for
+  <li>Agents: Gemma-4 and gpt-oss (open), Claude Haiku 5.5 and GPT-6-luna (closed, through their public APIs) on CAPE-Bench; AgentDojo for
     prompt injection.</li>
   <li>Uncertainty: cluster bootstrap over scenarios (agents) or conversations (chat), 1,000–2,000 resamples.</li>
 </ul>

diff --git a/docs.html b/docs.html
@@ -24,9 +24,9 @@ interface. Pick by how much your deployment differs from your labelled data.</p>
 <tr><td>Unseen benchmark (AgentDojo)</td><td>0.50 (chance)</td><td>0.78</td></tr>
 <tr><td>Train on your labels</td><td>in the browser (<a href="train.html">trainer</a>) or Python</td><td>Python (features + scikit-learn)</td></tr>
 </tbody></table></div>
-<p class="muted" style="margin-top:8px">AUROC from preregistered tests T4–T10 (<a href="results.html">evidence</a>). Both monitors need labelled steps of
-each policy you enforce: with a policy family removed from training, violations of it were ranked high but not escalated at a 5% budget,
-until 20–40 labelled steps of it were added.</p>
+<p class="muted" style="margin-top:8px">AUROC from preregistered tests T4–T12 (<a href="results.html">evidence</a>). A monitor can miss a policy that is not like the policies in
+its training data. In one test (T10), the monitor ranked such violations high but escalated none at a 5% budget, until we added 20–40
+labelled steps of that policy. In another (T12), a policy with similar trained policies transferred with no labels.</p>
 
 <h2>Install</h2>
 <pre>pip install "graybox[server] @ git+https://github.com/AryaFayyazi/GreyBox"     # core + HTTP server
